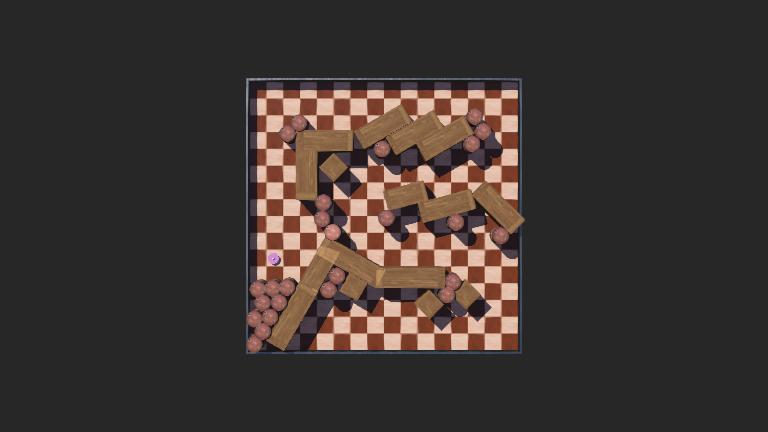
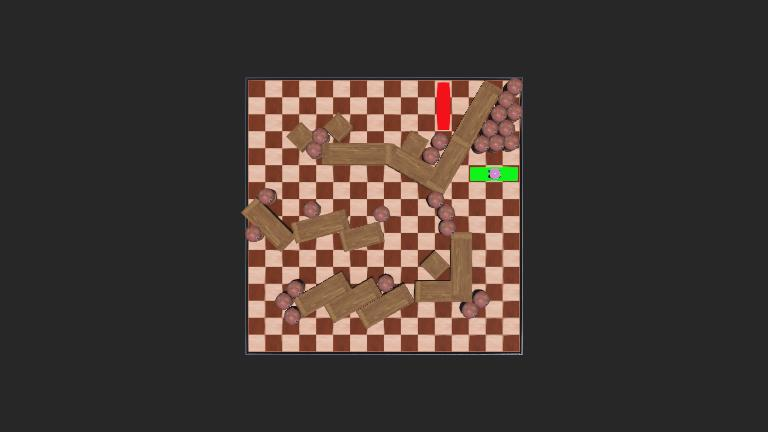
movimiento refinado, intento de Dijkstra

Changed region(s): [[0.3125, 0.1806, 0.6875, 0.8426]]

diff --git a/controllers/evasion_LIDAR/evasion_LIDAR.py b/controllers/evasion_LIDAR/evasion_LIDAR.py
@@ -1,13 +1,18 @@
-from controller import Robot
+from controller import Robot, Keyboard
 from PIL import Image
 import math
-from mapeado import update_occupancy_grid,map_array
+from mapeado import update_occupancy_grid, map_array, world_to_map, occupancy_grid, porcentaje_explorado
 from planificador import dijkstra
-from mapeado import world_to_map
 
 # Parámetros
 TIME_STEP = 128
 MAX_SPEED = 6.28
+rango_activacion_x = (-0.438413, -1)
+rango_activacion_y = (-0.438413, -0.6)
+
+def dentro_de_rango(pose, rango_x, rango_y):
+    x, y = pose[0], pose[1]
+    return (rango_x[0] <= x <= rango_x[1]) and (rango_y[0] <= y <= rango_y[1])
 
 def obtenerPose(gps_val, comp_val):
     robot_x = gps_val[1]
@@ -15,16 +20,48 @@ def obtenerPose(gps_val, comp_val):
     theta = math.atan2(comp_val[1], comp_val[0])
     return robot_x, robot_z, theta
 
+def seguir_camino(robot_pose, camino):
+    if not camino:
+        return 0.0, 0.0
+
+    mx, my = world_to_map(robot_pose[0], robot_pose[1])
+
+    if (mx, my) == camino[0]:
+        camino.pop(0)
+
+    if not camino:
+        return 0.0, 0.0
+
+    siguiente = camino[0]
+    dx = (siguiente[0] - mx)
+    dy = -(siguiente[1] - my)
+
+    objetivo_angulo = math.atan2(dy, dx)
+    angulo_error = objetivo_angulo - robot_pose[2]
+    angulo_error = (angulo_error + math.pi) % (2 * math.pi) - math.pi
+
+    if abs(angulo_error) > 0.2:
+        giro = max(min(angulo_error, 1), -1)
+        left_speed = -0.3 * giro * MAX_SPEED
+        right_speed = 0.3 * giro * MAX_SPEED
+    else:
+        left_speed = 0.5 * MAX_SPEED
+        right_speed = 0.5 * MAX_SPEED
+
+    return left_speed, right_speed
+
 if __name__ == "__main__":
     # Inicializar robot
     robot = Robot()
+    keyboard = Keyboard()
+    keyboard.enable(TIME_STEP)
 
     #Iniciar GPS y Compass
     gps = robot.getDevice('gps')
     gps.enable(TIME_STEP)
     compass = robot.getDevice('compass')
     compass.enable(TIME_STEP)
-
+    
     #Encontrar display
     display = robot.getDevice('display')
 
@@ -37,7 +74,6 @@ if __name__ == "__main__":
         robot.getDevice('ruedaDUp'),
         robot.getDevice('ruedaDDown')
     ]
-
     for motor in left_motors + right_motors:
         motor.setPosition(float('inf'))
         motor.setVelocity(0.0)
@@ -49,7 +85,7 @@ if __name__ == "__main__":
 
     lidar_resolution = lidar.getHorizontalResolution()
     lidar_fov = lidar.getFov()
-
+    
     # Calcular índices para sectores
     center_index = lidar_resolution // 2
     sector_size = lidar_resolution // 20  # 5% del total
@@ -59,51 +95,87 @@ if __name__ == "__main__":
     left_indices = list(range(center_index - 3 * sector_size, center_index - sector_size))
     right_indices = list(range(center_index + sector_size, center_index + 3 * sector_size))
 
+    #destino_world = (-0.438413, -0.810711) # barra amarilla
+    destino_world = (-0.812461, --0.311011) # barra verde
+    destino_map = world_to_map(destino_world[0], destino_world[1])
+    camino = None
+    
     estado = True # True = avanzar, False = evadir
     direccion_giro = None
-
+    dijkstra_activado = False
+    
     # Bucle principal
     while robot.step(TIME_STEP) != -1:
         lidar_data = lidar.getRangeImage()
-
-        # Obtener distancias mínimas en cada sector
-        front = min([lidar_data[i] for i in front_indices if i >= 0 and i < lidar_resolution])
-        left = min([lidar_data[i] for i in left_indices if i >= 0 and i < lidar_resolution])
-        right = min([lidar_data[i] for i in right_indices if i >= 0 and i < lidar_resolution])
-
-        #print(f"Avanzar: {estado} → Front: {front:.2f} m | Left: {left:.2f} m | Right: {right:.2f} m")
-
-        left_speed = 0.0
-        right_speed = 0.0
-
-        if estado is True:
-            direccion_giro = None  # Resetear dirección cuando avanza
-
-            if front < 0.08:  # Objeto demasiado cerca al frente
-                estado = False
-                if left > right:
-                    direccion_giro = "izquierda"
-                else:
-                    direccion_giro = "derecha"
-            else:
-                left_speed = MAX_SPEED * 0.8
-                right_speed = MAX_SPEED * 0.8
-
-        elif estado is False:
-            if front >= 0.3 and left >= 0.114 and right >= 0.114:
-                estado = True
-            else:
-                if direccion_giro == "izquierda":
-                    left_speed = -0.5 * MAX_SPEED
-                    right_speed = 0.5 * MAX_SPEED
-                elif direccion_giro == "derecha":
-                    left_speed = 0.5 * MAX_SPEED
-                    right_speed = -0.5 * MAX_SPEED
-
+        
         robot_pose = obtenerPose(gps.getValues(), compass.getValues())
+        
         update_occupancy_grid(robot_pose, lidar_data, lidar_resolution, lidar_fov)
-        # Actualizar mapa de ocupación
-        img,map_size = map_array(robot_pose)
+        
+        print(f"Mapa explorado: {porcentaje_explorado():.2f}%")
+        
+        tecla = keyboard.getKey()
+        if not dijkstra_activado and dentro_de_rango(robot_pose, rango_activacion_x, rango_activacion_y):
+            inicio_map = world_to_map(robot_pose[0], robot_pose[1])
+
+            if occupancy_grid[destino_map[0], destino_map[1]] == 2:
+                print("Destino bloqueado por obstáculo. No se puede planificar.")
+                camino = None
+            else:
+                camino = dijkstra(inicio_map, destino_map)
+                if camino:
+                    print("Camino encontrado:", camino)
+                    dijkstra_activado = True
+                else:
+                    print("No se encontró camino.")
+
+        left_speed, right_speed = (0.0, 0.0)
+
+        if camino:
+            # Movimiento por planificación
+            left_speed, right_speed = seguir_camino(robot_pose, camino)
+
+            if not camino:
+                print("Destino alcanzado.")
+                camino = None  # Volver a modo reactivo
+        
+        else:
+            # Movimiento reactivo (mientras no hay camino)
+            front = min([lidar_data[i] for i in front_indices if i >= 0 and i < lidar_resolution])
+            left = min([lidar_data[i] for i in left_indices if i >= 0 and i < lidar_resolution])
+            right = min([lidar_data[i] for i in right_indices if i >= 0 and i < lidar_resolution])
+
+            if estado:
+                direccion_giro = None  # Resetear dirección cuando avanza
+                if front < 0.08:  # Objeto demasiado cerca del frente
+                    estado = False
+                    if left > right:
+                        direccion_giro = "izquierda"
+                    else:
+                        direccion_giro = "derecha"
+                else:
+                    left_speed = MAX_SPEED * 0.8
+                    right_speed = MAX_SPEED * 0.8
+
+            else:
+                if front >= 0.2 and left >= 0.1 and right >= 0.1:
+                    estado = True
+                else:
+                    if direccion_giro == "izquierda":
+                        left_speed = -0.5 * MAX_SPEED
+                        right_speed = 0.5 * MAX_SPEED
+                    elif direccion_giro == "derecha":
+                        left_speed = 0.5 * MAX_SPEED
+                        right_speed = -0.5 * MAX_SPEED
+
+        # Visualizar mapa
+        img, map_size = map_array(robot_pose)
+
+        if camino:
+            for (mx, my) in camino:
+                if 0 <= mx < map_size and 0 <= my < map_size:
+                    img[mx, my] = [255, 0, 255]  # Camino en magenta
+        
         # Obtener tamaño del display
         display_width = display.getWidth()
         display_height = display.getHeight()
@@ -114,8 +186,7 @@ if __name__ == "__main__":
         
         display.imagePaste(display_image, 0, 0, False)
         display.imageDelete(display_image)
-        #print(robot_pose)
-
+        
         # Aplicar velocidades
         for motor in left_motors:
             motor.setVelocity(left_speed)

diff --git a/controllers/evasion_LIDAR/mapeado.py b/controllers/evasion_LIDAR/mapeado.py
@@ -1,14 +1,14 @@
 import numpy as np
-from controller import Supervisor
-from PIL import Image
 import math
 
 MAP_SIZEmt = 2
-MAP_RESOLUTION = 0.01  # metros por celda
+MAP_RESOLUTION = 0.01
 
-MAP_SIZE = int(MAP_SIZEmt / MAP_RESOLUTION)  # número de celdas por lado
-print("Tamaño del mapa:", MAP_SIZE, "celdas")
+MAP_SIZE = int(MAP_SIZEmt / MAP_RESOLUTION)
 MAP_CENTER = MAP_SIZE // 2
+
+print("Tamaño del mapa:", MAP_SIZE, "celdas")
+
 occupancy_grid = np.zeros((MAP_SIZE, MAP_SIZE), dtype=np.uint8)
 
 def world_to_map(x, y):
@@ -16,8 +16,12 @@ def world_to_map(x, y):
     my = int(MAP_CENTER - y / MAP_RESOLUTION)
     return mx, my
 
+def map_to_world(mx, my):
+    x = (mx - MAP_CENTER) * MAP_RESOLUTION
+    y = (MAP_CENTER - my) * MAP_RESOLUTION
+    return x, y
+
 def bresenham(x0, y0, x1, y1):
-    """Algoritmo de Bresenham para trazar una línea entre dos puntos en una cuadrícula. Marcar lo q mira el LIDAR"""
     points = []
     dx = abs(x1 - x0)
     dy = abs(y1 - y0)
@@ -63,30 +67,28 @@ def update_occupancy_grid(robot_pose, lidar_data, lidar_resolution, lidar_fov):
         gz = robot_z + lx * math.sin(robot_theta) + lz * math.cos(robot_theta)
         mx1, mz1 = world_to_map(gx, gz)
 
-       # Marca celdas libres entre el robot y el obstáculo
         for (mx, mz) in bresenham(mx0, mz0, mx1, mz1)[:-1]:
             if 0 <= mx < MAP_SIZE and 0 <= mz < MAP_SIZE:
                 if occupancy_grid[mx, mz] == 0:
-                    # Marca como libre si no es un obstáculo
-                    if occupancy_grid[mx, mz] != 2:
-                        occupancy_grid[mx, mz] = 1  # Siempre marca como libre
-                    else:
-                        occupancy_grid[mx, mz] = 0
-                
+                    occupancy_grid[mx, mz] = 1
 
-        # Marca la celda del obstáculo
         if 0 <= mx1 < MAP_SIZE and 0 <= mz1 < MAP_SIZE:
-            if occupancy_grid[mx1, mz1] == 0:
-                occupancy_grid[mx1, mz1] = 2  # Obstáculo
+            occupancy_grid[mx1, mz1] = 2
 
 def map_array(robot_pose=None):
     img = np.zeros((MAP_SIZE, MAP_SIZE, 3), dtype=np.uint8)
-    img[occupancy_grid == 2] = [0, 0, 255] #Ocupado
-    img[occupancy_grid == 1] = [0, 255, 0]  # Área libre
+    img[occupancy_grid == 2] = [0, 0, 255]
+    img[occupancy_grid == 1] = [0, 255, 0]
     img[occupancy_grid == 0] = [255, 255, 255]
     if robot_pose:
-        robot_x, robot_y, robot_theta = robot_pose
+        robot_x, robot_y, _ = robot_pose
         mx, my = world_to_map(robot_x, robot_y)
         if 0 <= mx < MAP_SIZE and 0 <= my < MAP_SIZE:
             img[mx, my] = [255, 0, 0]
-    return img,MAP_SIZE
+    return img, MAP_SIZE
+
+def porcentaje_explorado():
+    total_celdas = occupancy_grid.size
+    celdas_exploradas = np.count_nonzero(occupancy_grid != 0)
+    porcentaje = (celdas_exploradas / total_celdas) * 100
+    return porcentaje

diff --git a/controllers/evasion_LIDAR/planificador.py b/controllers/evasion_LIDAR/planificador.py
@@ -1,0 +1,46 @@
+import heapq
+from mapeado import MAP_SIZE, occupancy_grid
+
+def vecinos(pos):
+    x, y = pos
+    movimientos = [(-1, 0), (1, 0), (0, -1), (0, 1)]
+    result = []
+    for dx, dy in movimientos:
+        nx, ny = x + dx, y + dy
+        if 0 <= nx < MAP_SIZE and 0 <= ny < MAP_SIZE:
+            if occupancy_grid[nx, ny] != 2:  # ✅ Solo obstáculo es bloqueante
+                result.append((nx, ny))
+    return result
+
+def dijkstra(inicio, objetivo):
+    heap = []
+    heapq.heappush(heap, (0, inicio))
+    distancias = {inicio: 0}
+    predecesores = {inicio: None}
+
+    while heap:
+        costo_actual, nodo_actual = heapq.heappop(heap)
+
+        if nodo_actual == objetivo:
+            break
+
+        for vecino in vecinos(nodo_actual):
+            penalizacion = 1 if occupancy_grid[vecino[0], vecino[1]] == 1 else 2  # Penaliza desconocido
+            nuevo_costo = costo_actual + penalizacion
+
+            if vecino not in distancias or nuevo_costo < distancias[vecino]:
+                distancias[vecino] = nuevo_costo
+                heapq.heappush(heap, (nuevo_costo, vecino))
+                predecesores[vecino] = nodo_actual
+
+    camino = []
+    nodo = objetivo
+    while nodo is not None:
+        camino.append(nodo)
+        nodo = predecesores.get(nodo)
+    camino.reverse()
+
+    if camino and camino[0] == inicio:
+        return camino
+    else:
+        return None
